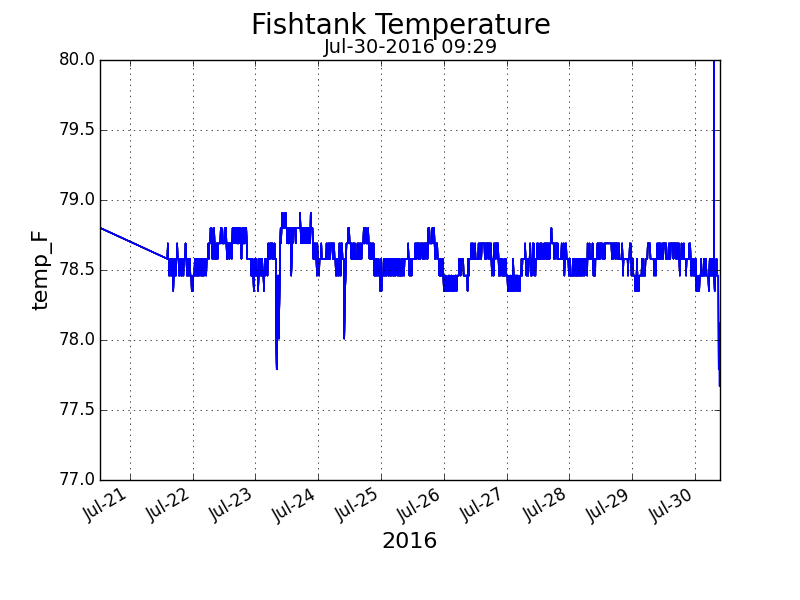
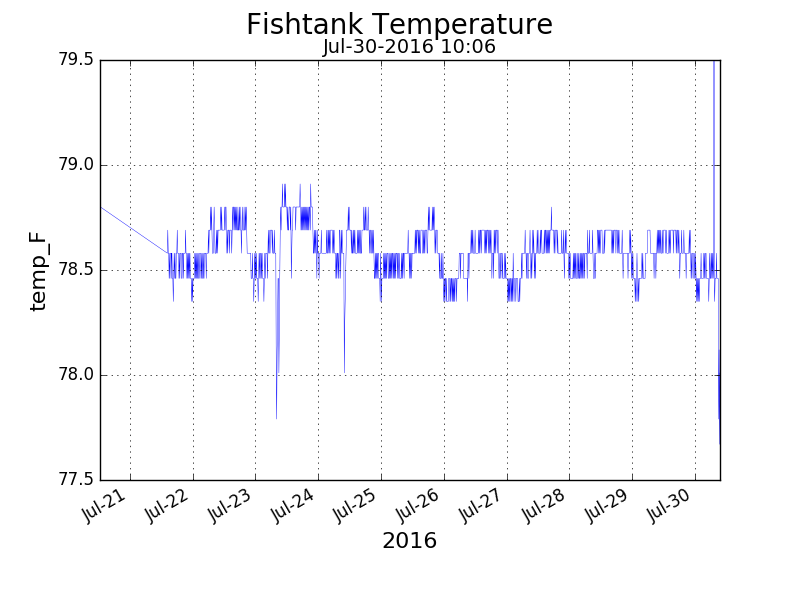
up

diff --git a/fishtank_v2.py b/fishtank_v2.py
@@ -148,8 +148,8 @@ if not args.test:
         device_file = device_folder + '/w1_slave'
 
 
-temp_f_hi = 80
-temp_f_lo = 77
+temp_f_hi = 79.5
+temp_f_lo = 77.5
 temp_c_test = 26
 
 # prowl vars
@@ -294,7 +294,7 @@ def tempanalysis():
                                     skipinitialspace=True)
                 logger.debug('pd.read_csv done')
                 pdinp = pdinp.dropna()
-                pdinp.plot(title='FishTank Temperature', linewidth=.2,
+                pdinp.plot(title='FishTank Temperature', linewidth=.3,
                            kind='line',grid=True, y='temp_F',
                            ylim=[temp_f_lo, temp_f_hi])
                 logger.debug('plot done')
